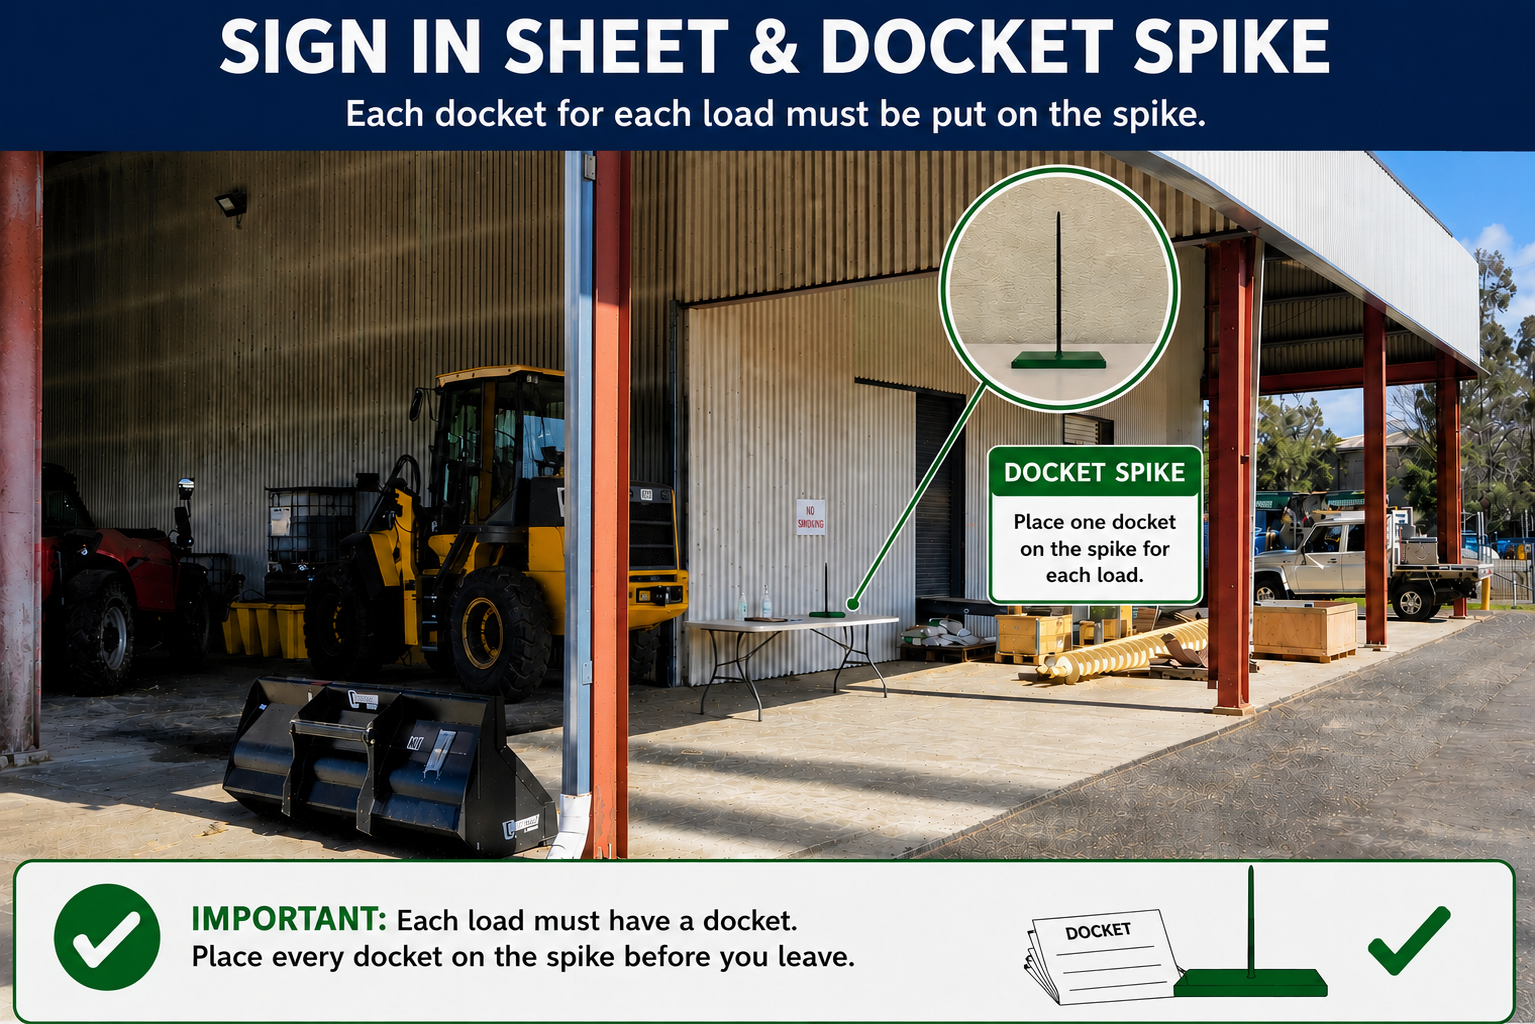
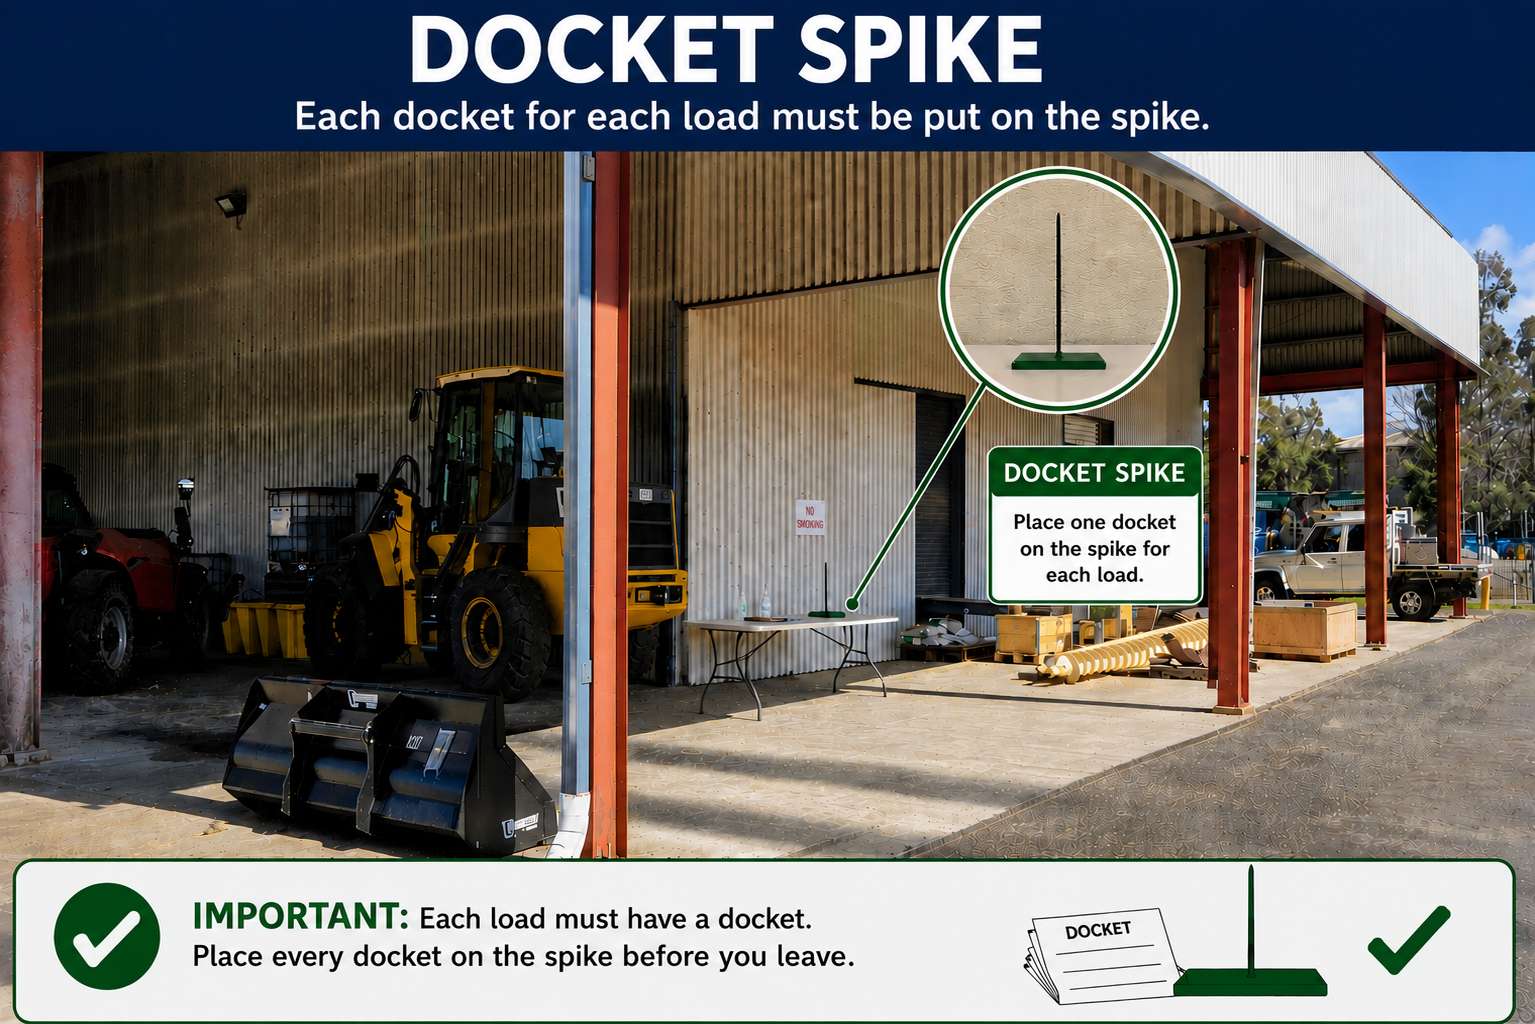
Replace Docket Spike image with corrected version (removed sign-in-sheet reference from photo)

diff --git a/feedstock/index.html b/feedstock/index.html
@@ -452,6 +452,6 @@
 
 
 <footer style="text-align:center;font-size:12px;color:#6b7280;padding:16px 12px 26px;border-top:1px solid #e5e7eb;margin-top:20px;"><a href="/privacy-policy.html" style="color:#1B4332;">Privacy &amp; Data Collection Policy</a></footer>
-<script src="/feedstock/script.js?v=20260903003539"></script>
+<script src="/feedstock/script.js?v=20260903004018"></script>
 </body>
           </html>
